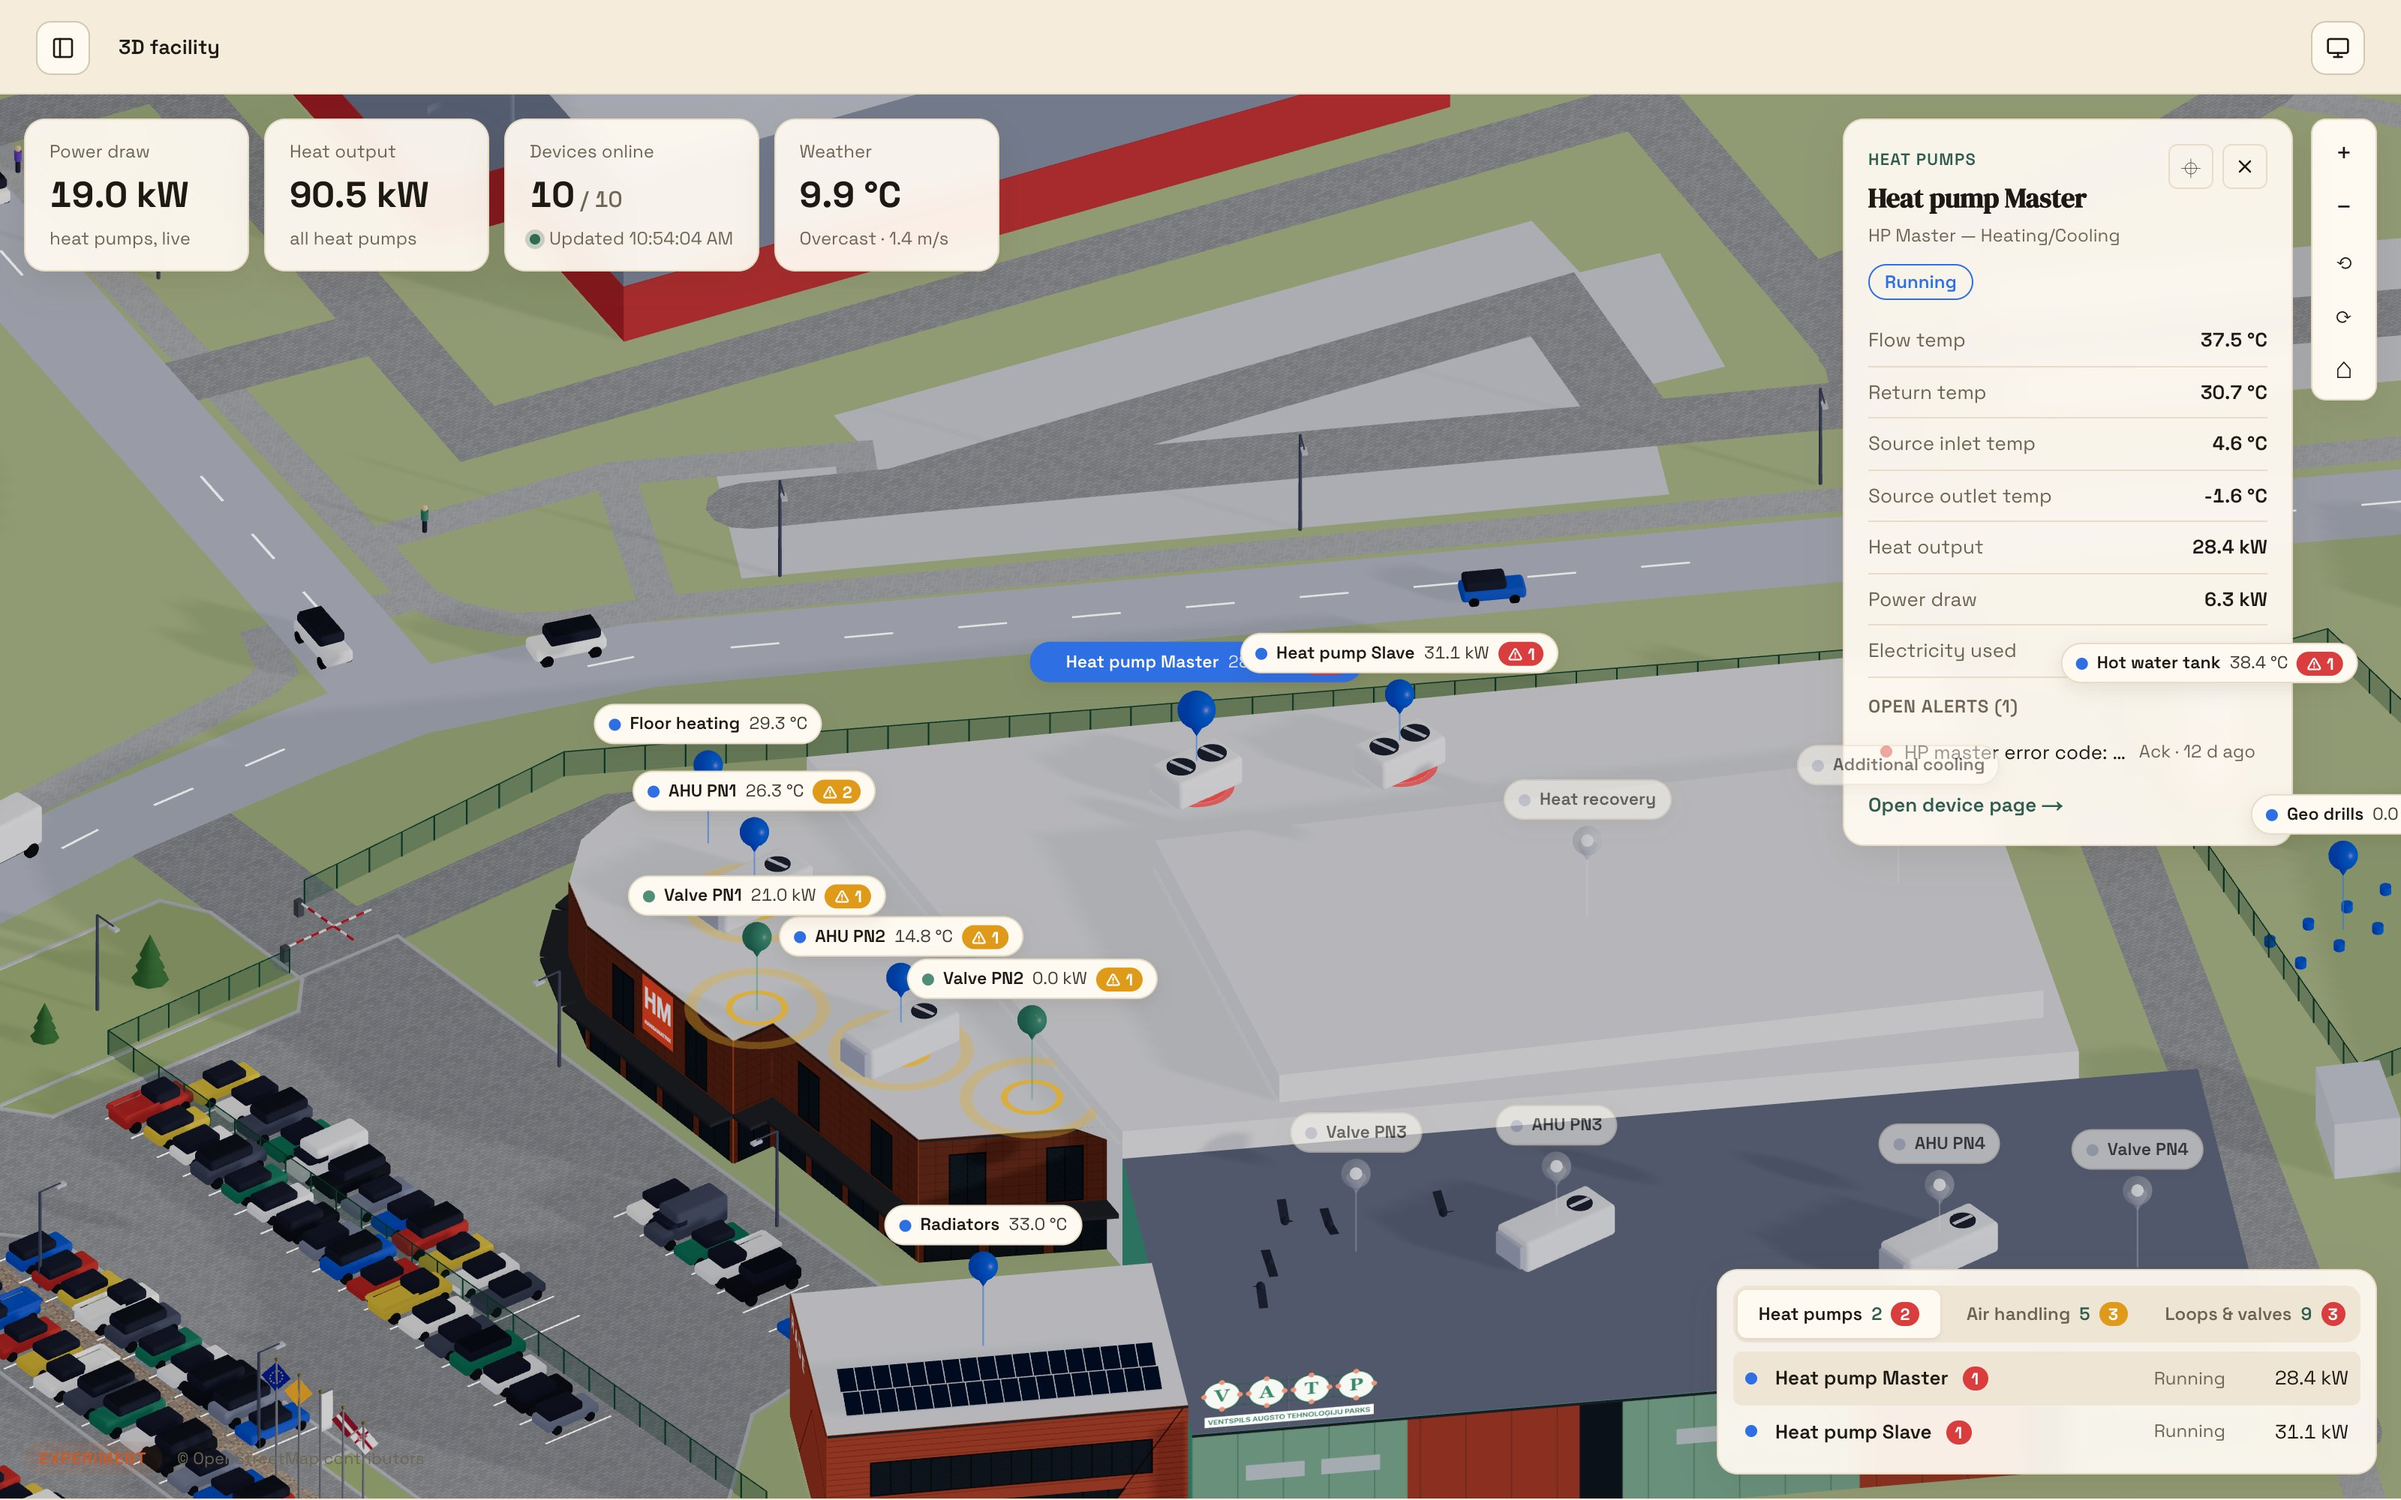
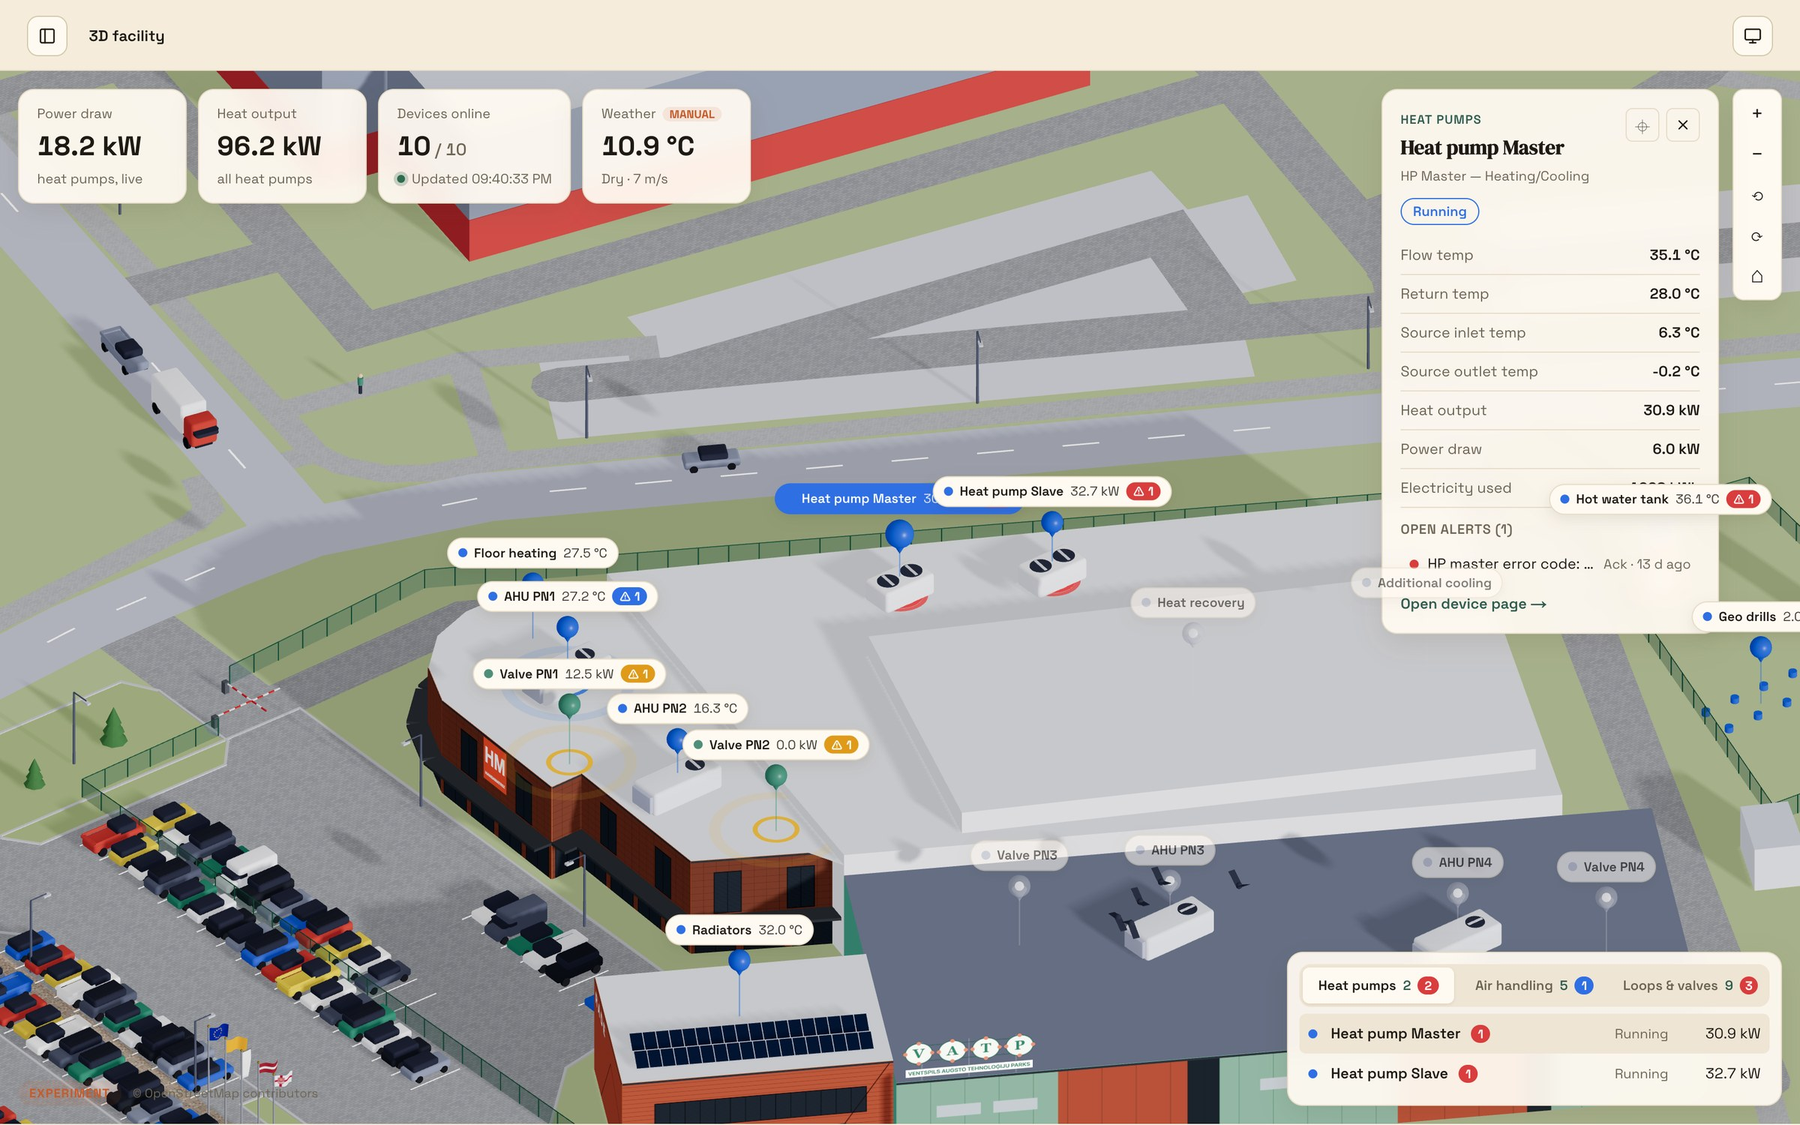
ipcei-2026-q3: slide 3 is a click inside slide 2's daytime scene

diff --git a/ipcei-2026-q3/index.html b/ipcei-2026-q3/index.html
@@ -629,7 +629,7 @@ const SCREENS = {
   adminPolicy: { src: 'app/admin-policy.jpg',    h: 1000, url: 'Administrēšana / Vadības politikas' },
 };
 
-const ASSET_V = '20261104d';
+const ASSET_V = '20261104e';
 Object.values(SCREENS).forEach((s) => { s.src += '?v=' + ASSET_V; if (s.video) s.video += '?v=' + ASSET_V; });
 
 const STAGES = ['Ēka', 'Pārskats', 'Iekārtas', 'Komforts', 'Enerģija', 'MI', 'Kontrole', 'Tālāk'];
@@ -643,8 +643,8 @@ const STEPS = [
 
   { type: 'cam', stage: 0, screen: 'f3d', rect: [0, 0, 1600, 1000], spot: false, title: 'Šeit viss sākas — mūsu objekts', text: 'VATP ēka 3D. Katrs punktiņš ir reāla iekārta. Abi siltumsūkņi strādā: 18 kW elektrības → 96,5 kW siltuma.',
     say: 'Šeit viss sākas — šis ir mūsu objekts. Katrs punktiņš ir reāla iekārta, kas sūta datus uz platformu. 3D skats ir eksperiments: mēģinām dažādus veidus, kā un ko rādīt — gan ikdienas lietotājiem, gan cilvēkiem, kas apmeklē ēku. Konferencēs redzējām, ka vismaz dažos tirgos uzņēmumi tieši šādus 3D modeļus izvēlas, tāpēc izmēģinājām arī mēs.' },
-  { type: 'cam', stage: 0, screen: 'f3dHp', rect: [1222, 74, 312, 500], chip: 'Mala · Luxtronik', title: 'Kur kilovatstunda kļūst par siltumu', text: 'Galvenais siltumsūknis: 6,3 kW elektrības → 28,4 kW siltuma. Kā no 6 var dabūt 28? Pie tā atgriezīsimies.',
-    say: 'Mūsu kilovatstunda ceļo tieši šurp — uz siltumsūkni uz jumta. Uzspiežot redzam, ko tas dara šobrīd: ieņem nedaudz vairāk par 6 kilovatiem elektrības un atdod 28 kilovatus siltuma. Tas izklausās pēc maģijas — un vēlāk parādīšu, kā tas strādā. Šie dati nāk tieši no siltumsūkņa kontrollera — tā ir malas daļa mūsu IPCEI-CIS sistēmā.' },
+  { type: 'cam', stage: 0, screen: 'f3dHp', rect: [1228, 79, 300, 485], chip: 'Mala · Luxtronik', title: 'Kur kilovatstunda kļūst par siltumu', text: 'Galvenais siltumsūknis: 6 kW elektrības → 30,9 kW siltuma. Kā no 6 var dabūt 31? Pie tā atgriezīsimies.',
+    say: 'Mūsu kilovatstunda ceļo tieši šurp — uz siltumsūkni uz jumta. Uzspiežot redzam, ko tas dara šobrīd: ieņem 6 kilovatus elektrības un atdod gandrīz 31 kilovatu siltuma. No zemes šķidrums ienāk ar 6 grādiem, atpakaļ aiziet ar nulli — to siltumu siltumsūknis paņēma. Tas izklausās pēc maģijas — un vēlāk parādīšu, kā tas strādā. Šie dati nāk tieši no siltumsūkņa kontrollera — tā ir malas daļa mūsu IPCEI-CIS sistēmā.' },
 
   { type: 'cam', stage: 1, screen: 'dashboard', rect: [0, 0, 1600, 1000], spot: false, title: 'Ikdienā — galvenais panelis', text: 'Pārvaldnieks katru rītu atver šo: cik šodien patērējām, cik tas maksāja un kas mainījies kopš vakardienas.',
     say: '3D ir skaists, bet ikdienā pārvaldnieks atver šo — galveno paneli. Vienā skatā: cik kilovatstundu šodien patērējām, cik tas maksāja, kā tas salīdzinās ar vakardienu, kāda ir elektrības cena un laiks ārā.' },
